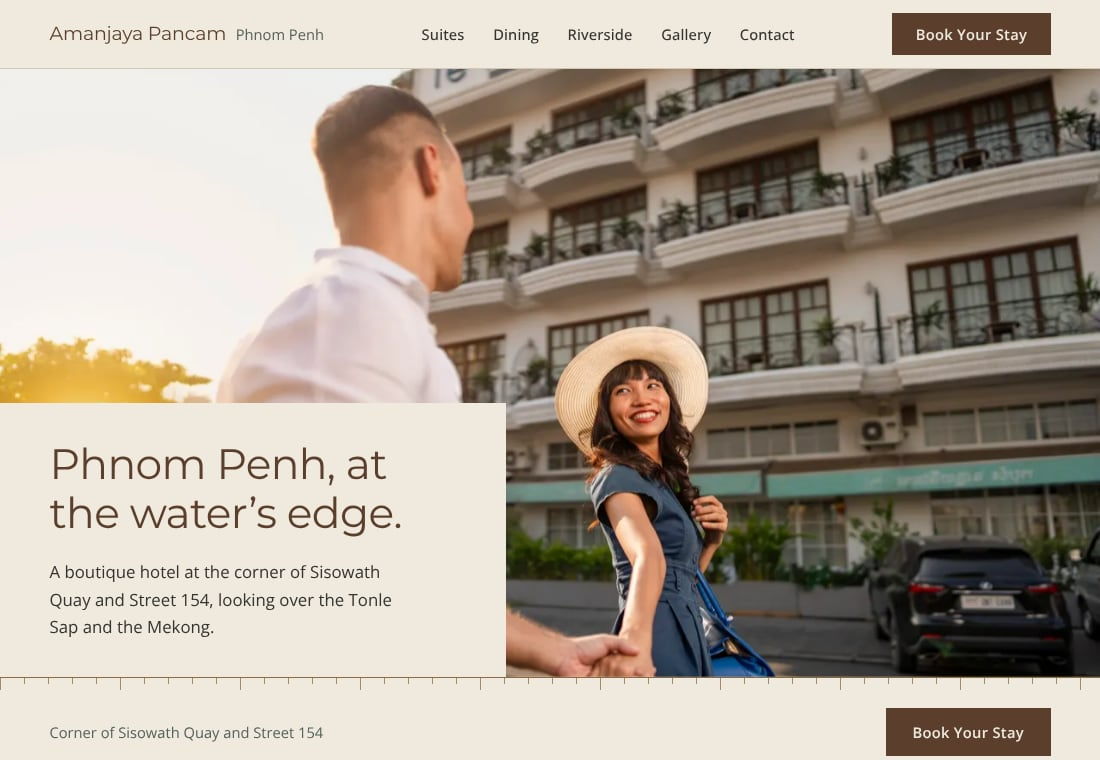
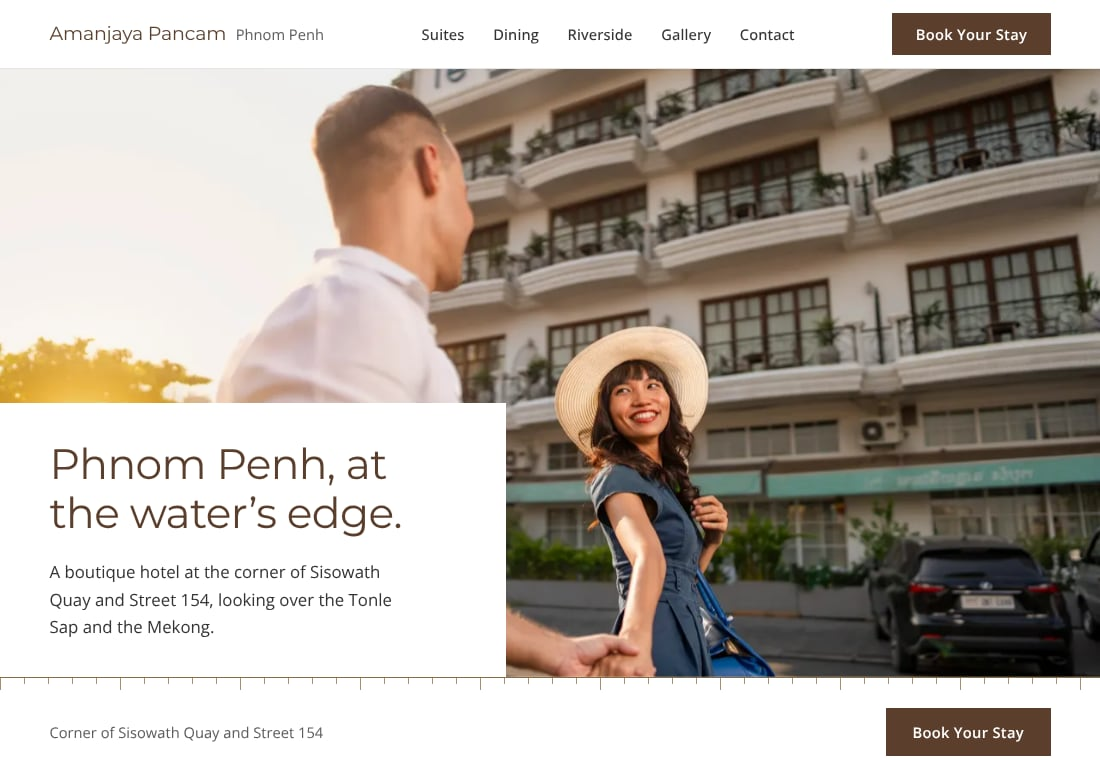
Palette: pure white surfaces, charcoal text, teak and bronze accents
Replaces the ivory/cream palette (#EFEADD) with white to move closer to the
clean look of the existing Amanjaya website and away from a generic
template feel.

- White (#FFFFFF) for the page, header, mobile menu, hero panel and all main
  content sections. Text is charcoal #333333; secondary text is a neutral
  grey #5C5C5C (the green-tinted sage is gone).
- Teak and muted bronze stay as restrained accents (headings, buttons,
  hairlines, the waterline). The darker teak dining band and the charcoal
  footer are kept for contrast.
- Removed the beige surfaces: ivory-deep and ivory-soft tokens, tinted header
  and menu hairlines (now a neutral grey line), beige photo-loading fill and
  placeholder tones, the theme-color meta and the favicon mark.
- Contrast re-checked: every text pair passes WCAG AA (charcoal on white 12.6,
  teak 9.6, grey 6.7, soft white on teak 7.0). A scan of computed styles shows
  only white, teak, charcoal and neutral greys.
- Typography, layout, photography, waterline and the four-room grid with
  starting prices are unchanged.
- Refreshed screenshots, plus ivory-vs-white comparisons; docs updated.

Claude-Session: https://claude.ai/code/session_01Ltb6LhfXKYs7J7ZKfoUyej

diff --git a/src/styles/global.css b/src/styles/global.css
@@ -1,17 +1,18 @@
 /* Amanjaya Pancam: design tokens and base styles.
-   Palette follows CLAUDE.md (ivory, teak, charcoal, bronze). Bronze has a light variant for lines on dark
-   and a deep variant for small text, because the mid bronze is only 4.1:1 on ivory (large text only). */
+   Palette: pure white surfaces, charcoal text, with teak and muted bronze as restrained accents.
+   Teak is also the darker dining band; charcoal is the footer. No beige or tinted surfaces. */
 
 :root {
-  --ivory: #efeadd;
-  --ivory-deep: #e4ddca;
-  --teak: #5b3f2c;
-  --charcoal: #34332f;
-  --bronze: #8c6a3f; /* lines, large display text */
-  --bronze-deep: #6b4e2c; /* small text and links on ivory (6.3:1) */
-  --bronze-light: #d2b686; /* lines and links on teak/charcoal (4.9:1 on teak) */
-  --sage-text: #55625b; /* secondary text on ivory (5.3:1) */
-  --ivory-soft: #d5cdbd; /* body text on teak (6.1:1) */
+  --white: #ffffff;
+  --charcoal: #333333; /* main text (12.6:1 on white) and the footer */
+  --teak: #5b3f2c; /* headings, buttons, the dining band (9.6:1 on white) */
+  --bronze: #8c6a3f; /* hairlines, the waterline, small accents (4.9:1 on white) */
+  --bronze-deep: #6b4e2c; /* links and small bronze text (7.6:1 on white) */
+  --bronze-light: #d2b686; /* lines and links on dark (4.9:1 on teak, 6.5:1 on charcoal) */
+  --grey-text: #5c5c5c; /* secondary text (6.7:1 on white) */
+  --on-dark-soft: rgb(255 255 255 / 0.82); /* body text on teak (7.0:1) and charcoal (9.0:1) */
+  --line: #e6e6e6; /* neutral hairlines (header, menu) */
+  --grey-fill: #f2f2f2; /* only visible while a photograph is loading */
 
   /* Typography revision: Montserrat (headings) and Open Sans (text), the two families the original site also loaded. */
   --font-heading: 'Montserrat Variable', 'Segoe UI', system-ui, -apple-system, sans-serif;
@@ -46,7 +47,7 @@ html {
 
 body {
   margin: 0;
-  background: var(--ivory);
+  background: var(--white);
   color: var(--charcoal);
   font-family: var(--font-body);
   font-size: var(--step-0);
@@ -160,7 +161,7 @@ a:hover {
   z-index: 100;
   padding: 0.75rem 1rem;
   background: var(--teak);
-  color: var(--ivory);
+  color: var(--white);
 }
 
 .skip-link:focus {
@@ -175,7 +176,7 @@ a:hover {
   min-height: 2.9rem;
   padding: 0.7rem 1.6rem;
   background: var(--teak);
-  color: var(--ivory);
+  color: var(--white);
   border: 1px solid var(--teak);
   font-family: var(--font-body);
   font-size: var(--step--1);
@@ -189,7 +190,7 @@ a:hover {
 }
 
 .btn:hover {
-  background: var(--ivory);
+  background: var(--white);
   color: var(--teak);
 }
 
@@ -202,18 +203,18 @@ a:hover {
 
 .btn--outline:hover {
   background: var(--teak);
-  color: var(--ivory);
+  color: var(--white);
 }
 
 .btn--light {
-  background: var(--ivory);
-  border-color: var(--ivory);
+  background: var(--white);
+  border-color: var(--white);
   color: var(--teak);
 }
 
 .btn--light:hover {
   background: transparent;
-  color: var(--ivory);
+  color: var(--white);
 }
 
 /* The waterline: a hairline with a river-gauge scale hanging from it, the one recurring motif.

diff --git a/docs/DESIGN-RATIONALE.md b/docs/DESIGN-RATIONALE.md
@@ -6,7 +6,7 @@
 
 A hairline in bronze with a river-gauge scale hanging from it marks the join between the hero photograph and the page. It draws across once on load and appears again at the top of the footer. It is the only recurring decoration. The hotel stands on a quay, and gauges like this are what you find at a river's edge.
 
-The hero text sits on a solid ivory panel that rises from the page into the photograph and ends on the waterline, so contrast never depends on the photograph.
+The hero text sits on a solid white panel that rises from the page into the photograph and ends on the waterline, so contrast never depends on the photograph.
 
 ## Type
 
@@ -19,7 +19,9 @@ Typography experiment 2 (the Newsreader / Hanken Grotesk direction is in git at 
 
 ## Colour
 
-Ivory `#EFEADD`, teak `#5B3F2C`, charcoal `#34332F`, bronze `#8C6A3F`, plus a deep bronze (`#6B4E2C`) and a light bronze (`#D2B686`) for text, and a sage-grey (`#55625B`) for secondary text. The mid bronze is only 4.1:1 on ivory, so it is used for lines and large type only. Text pairs used: charcoal on ivory 10.5, teak on ivory 8.0, deep bronze on ivory 6.3, sage on ivory 5.3, soft ivory on teak 6.1, light bronze on teak 4.9 (all WCAG AA).
+Pure white `#FFFFFF` for the page, header, hero panel and content sections, as on the existing Amanjaya website. The earlier beige/ivory background was dropped because it read as a generic template. Text is charcoal `#333333`. Teak `#5B3F2C` is the accent for headings, buttons and the darker dining band, and muted bronze `#8C6A3F` (deep `#6B4E2C` for links, light `#D2B686` on dark) is used for hairlines, the waterline and small accents. Secondary text is a neutral grey `#5C5C5C`; the footer is charcoal. No tinted or beige surfaces remain.
+
+Contrast (WCAG AA): charcoal on white 12.6, teak on white 9.6, grey on white 6.7, deep bronze on white 7.6, bronze on white 4.9, white on teak 9.6, soft white on teak 7.0, light bronze on teak 4.9 and on charcoal 6.5.
 
 ## Choices against the defaults
 

diff --git a/docs/PHOTO-REVIEW.md b/docs/PHOTO-REVIEW.md
@@ -6,7 +6,7 @@ Reviewed with the 17 real photographs in place. Screenshots are in `docs/screens
 
 ## Hero
 
-**Recommendation: keep the couple in front of the hotel, using the 2560 px original.** It is the only image that shows the hotel in daylight, the light is warm and matches the ivory, teak and bronze palette, and it crops well to every screen: on mobile the portrait crop keeps the smile, the balconies and the held hands; on desktop the ivory panel covers the least interesting part (the out-of-focus shoulder).
+**Recommendation: keep the couple in front of the hotel, using the 2560 px original.** It is the only image that shows the hotel in daylight, the warm light suits the teak and bronze accents, and it crops well to every screen: on mobile the portrait crop keeps the smile, the balconies and the held hands; on desktop the white panel covers the least interesting part (the out-of-focus shoulder).
 
 The file the existing site uses as its cover (`amh-homepage-cover.png`) is a 16:9 crop of this same photograph. The original is better because it is 2560 px wide and lets us choose the crop.
 

diff --git a/README.md b/README.md
@@ -35,7 +35,7 @@ The hotel's own photographs are committed in `src/assets/photos/` (never hotlink
 | Hotel facts, booking link, contact, nav | `src/config/site.ts` |
 | Homepage copy and photo choices | `src/content/home.ts` |
 | Room starting prices (edit here only) | `src/data/pricing.ts` |
-| Colours, type scale (Montserrat + Open Sans), waterline motif | `src/styles/global.css` |
+| Colours (white, charcoal, teak, bronze), type scale (Montserrat + Open Sans), waterline motif | `src/styles/global.css` |
 | Page sections | `src/components/` |
 | Sources, placeholders, questions for the hotel | `docs/CONTENT-SOURCES.md` |
 | Design rationale | `docs/DESIGN-RATIONALE.md` |
